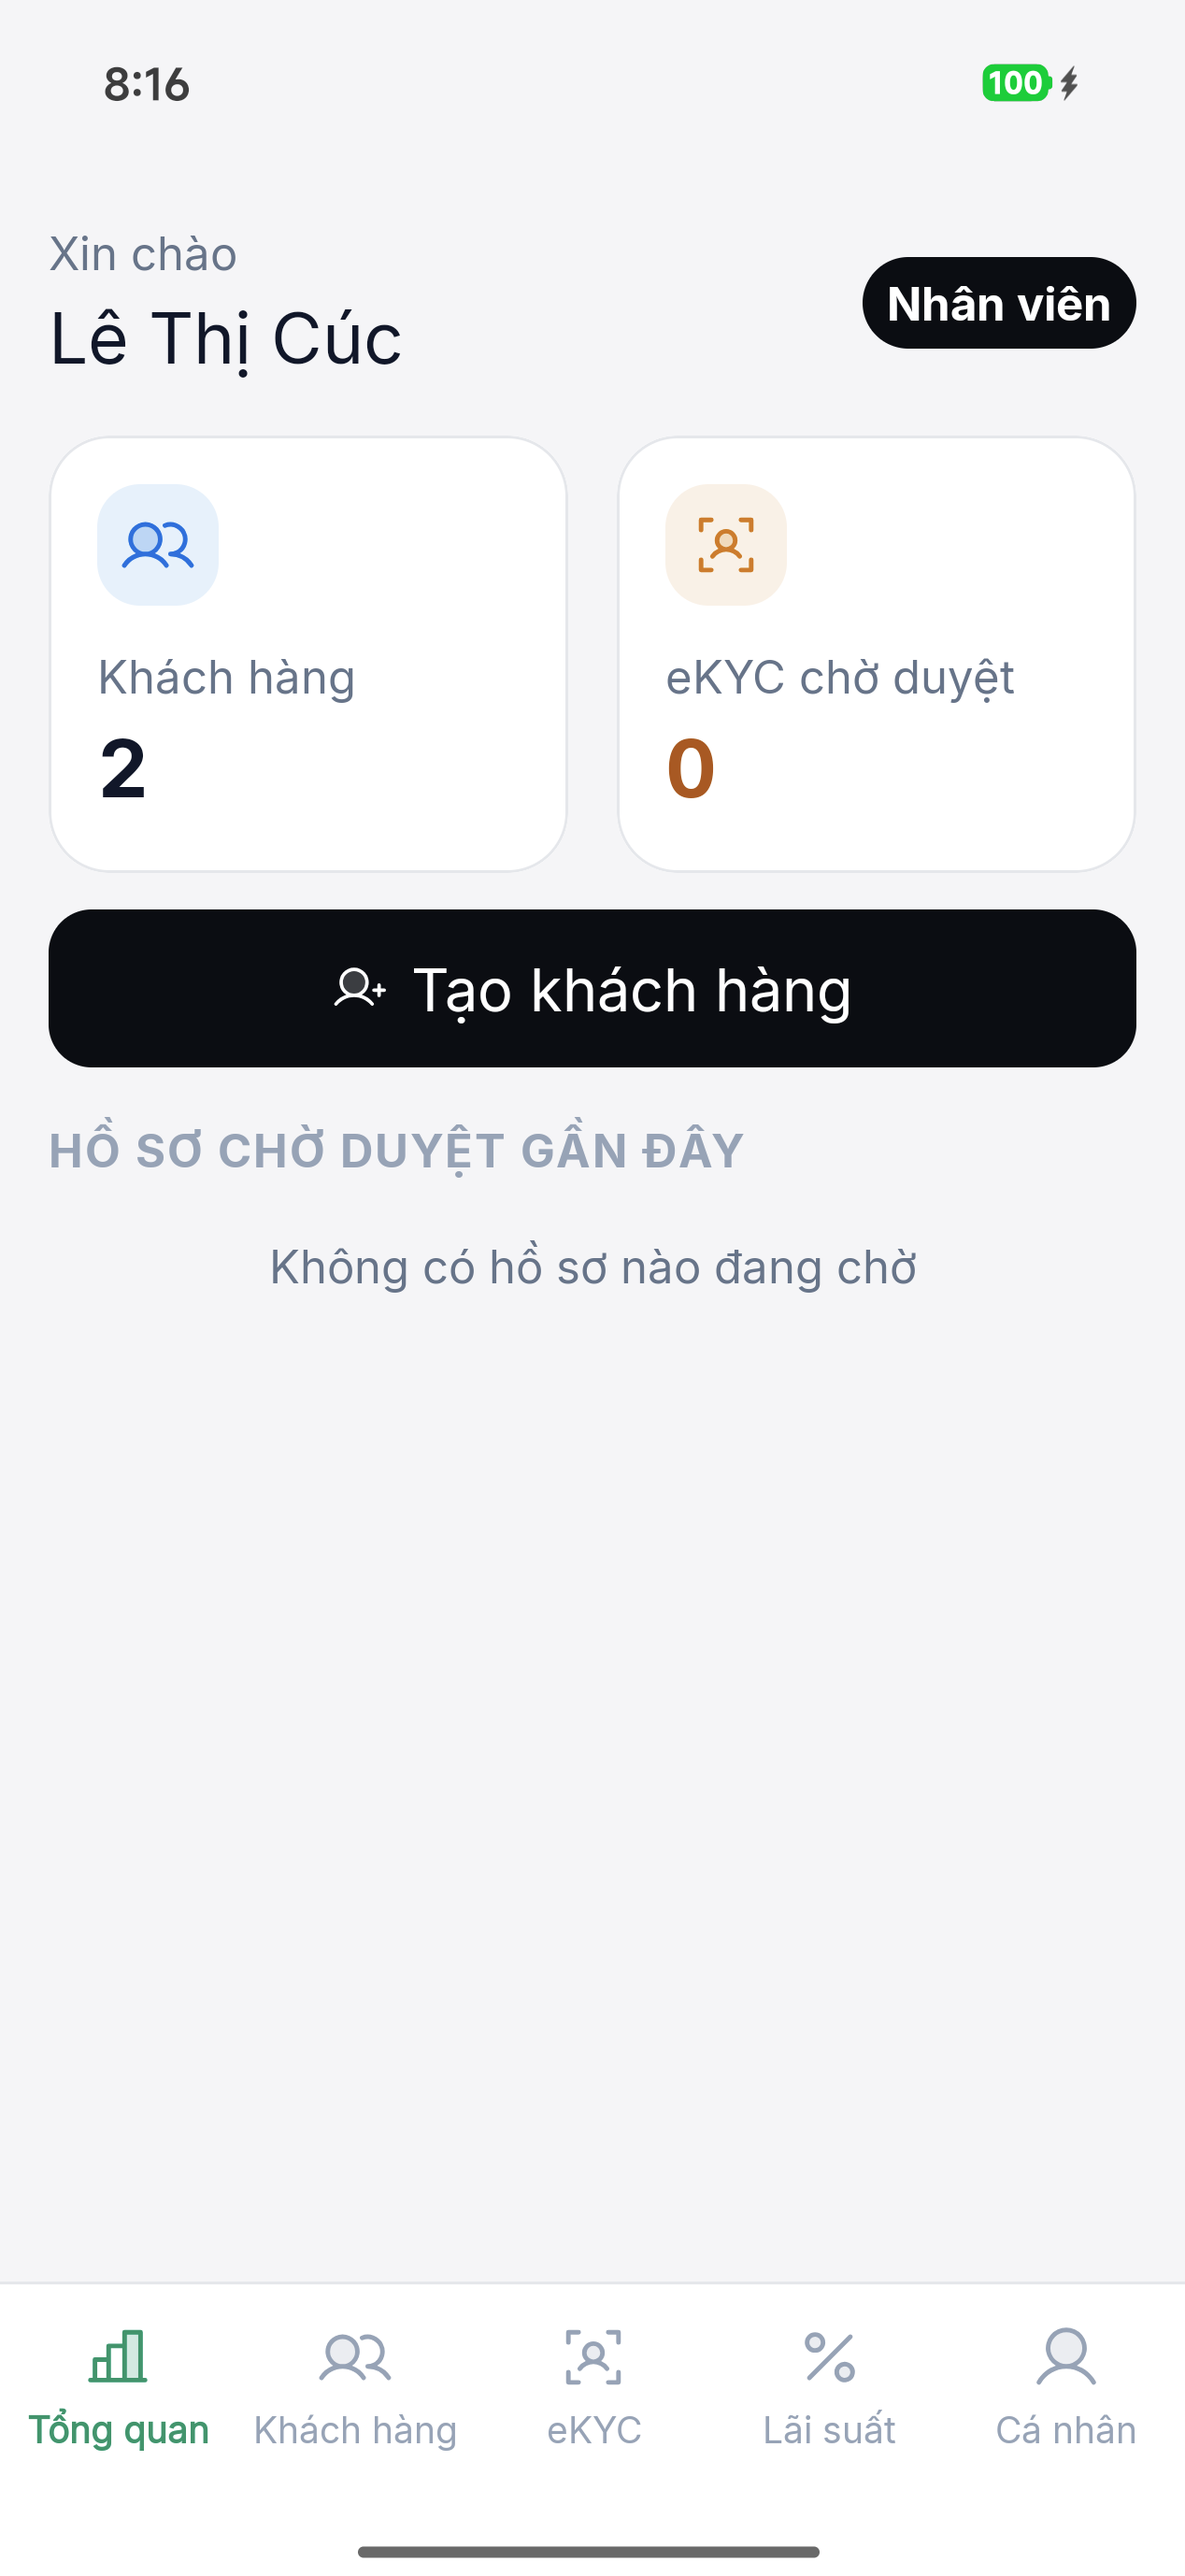
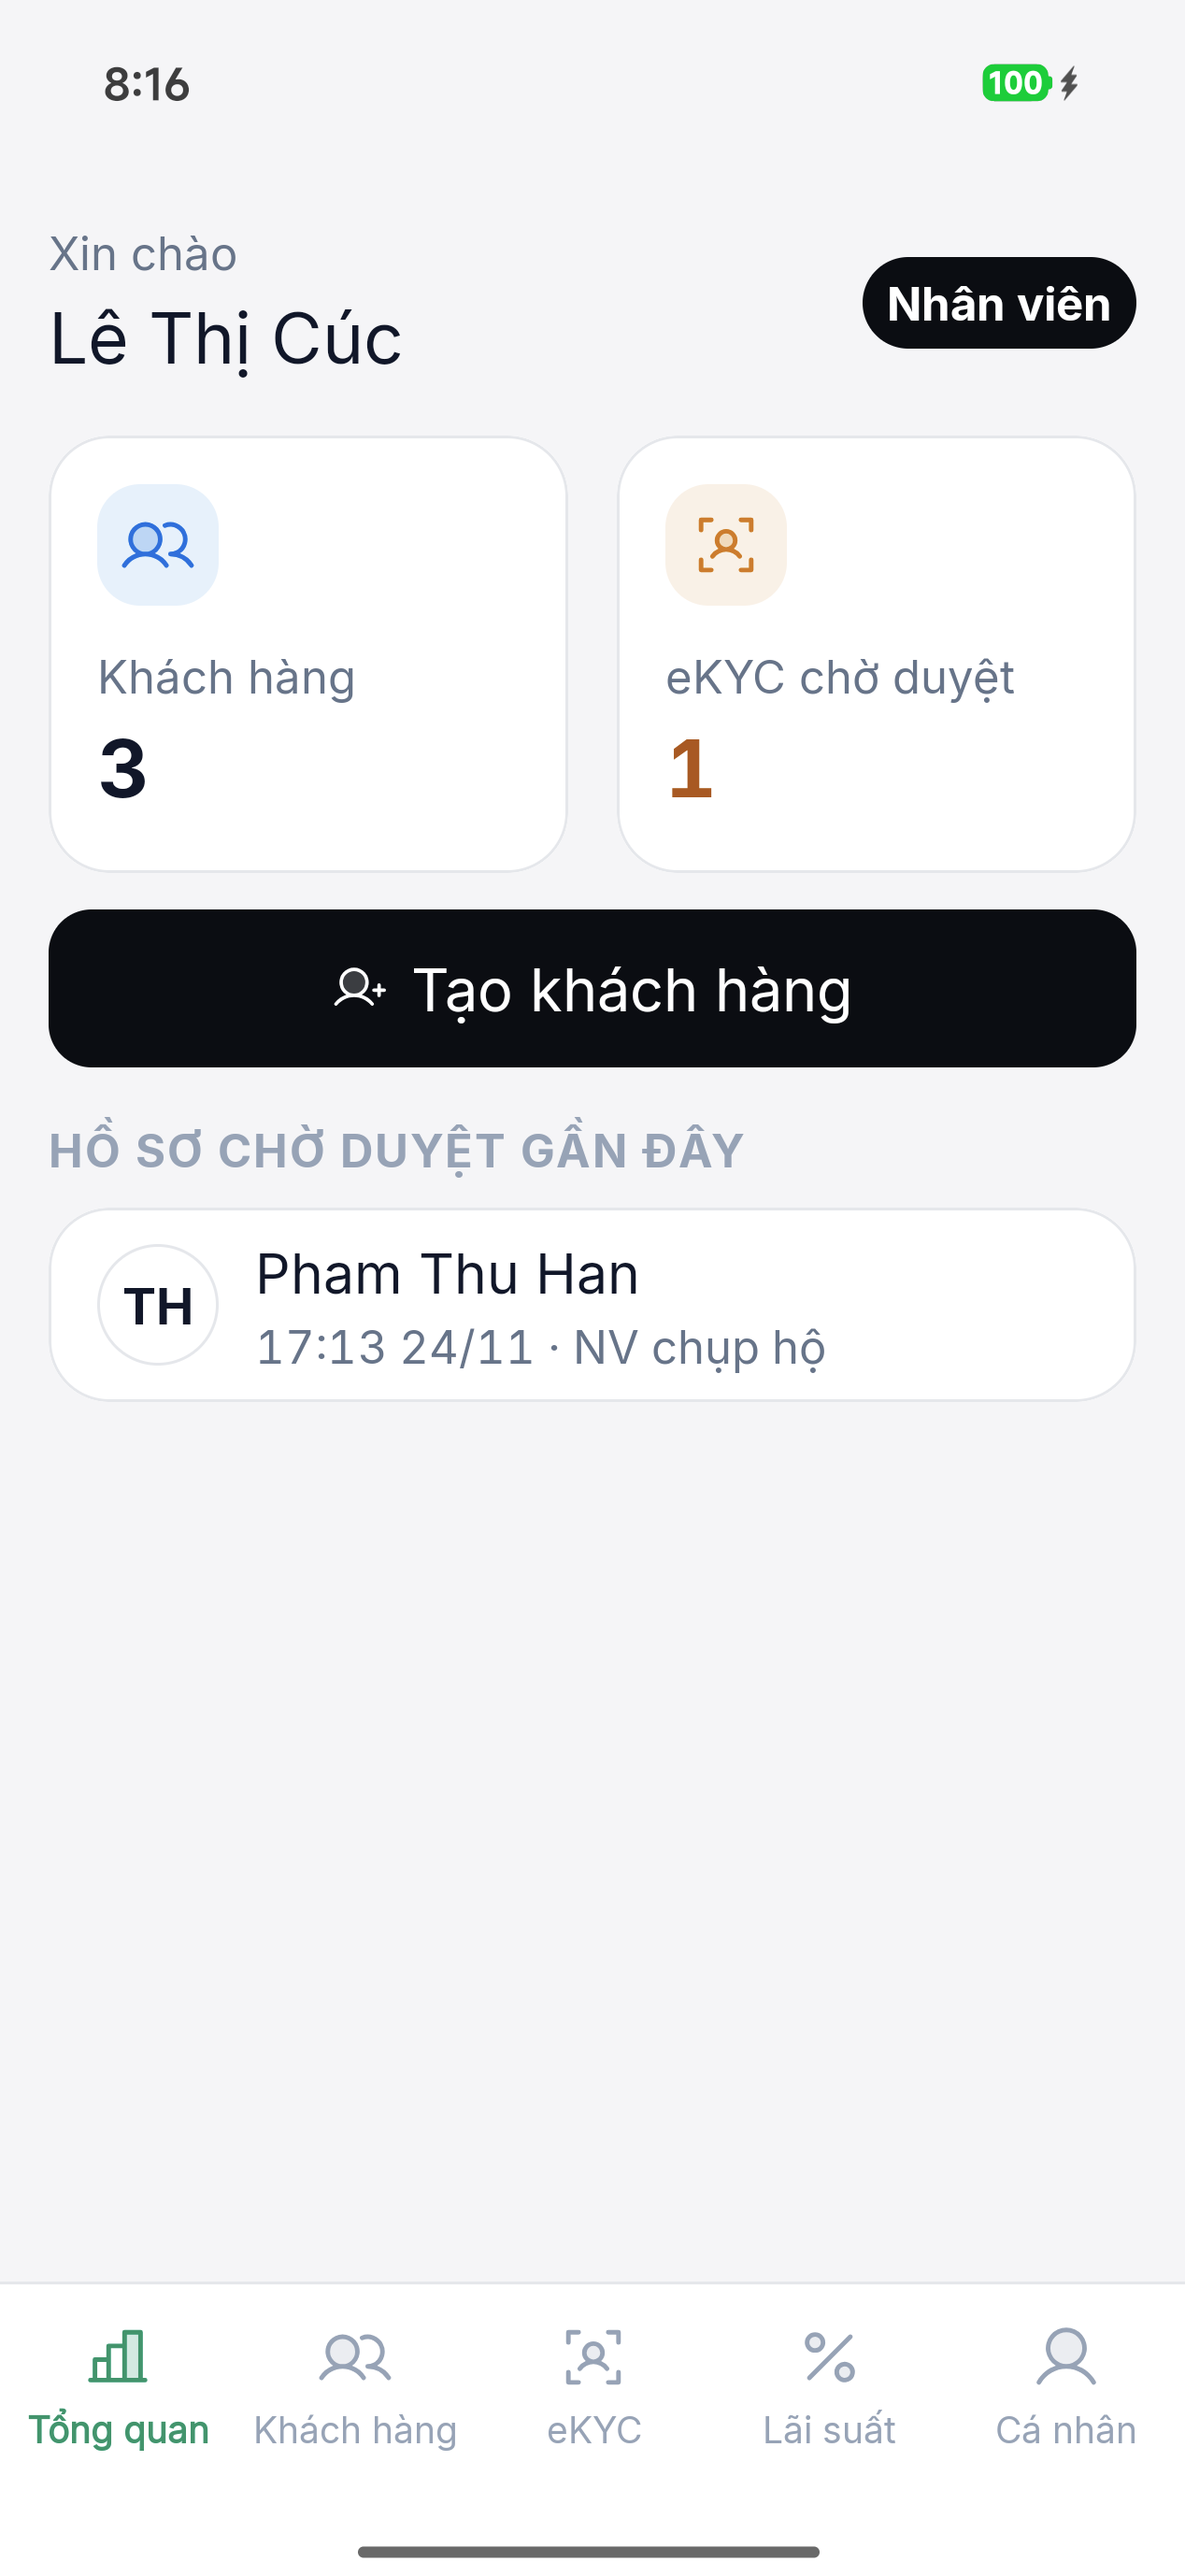
docs: submission section, four extra utility screenshots, updated overview shot

diff --git a/docs/HANDOFF.md b/docs/HANDOFF.md
@@ -297,5 +297,5 @@ Quy trình đã dùng và nên giữ: `superpowers:brainstorming` → spec trong
 - **Ảnh UI**: `docs/report/images/ui/<id>.png` (id trong `ui-shots.md`, 43 ảnh). Chưa có ảnh thật nên build tự tạo ảnh giữ chỗ (không ghi đè ảnh đã có). Chụp bằng `adb exec-out screencap -p` sau khi dọn máy: tắt nút trợ năng nổi, bật Không làm phiền, đổi tên khách thử "Customer", ảnh bản đồ không lộ vị trí nhà. File ảnh thật cần `git add -f` (thư mục `images/ui/` bị gitignore vì chứa ảnh sinh tự động).
 - **Việc còn lại cho báo cáo**: (1) chụp 43 ảnh, dựng lại; (2) mở `.docx` trong ONLYOFFICE (danh mục đã điền sẵn; làm mới lại nếu sửa nội dung trong file Word) → soát → xuất PDF; (3) đọc lại toàn bộ (chương 1 ghi "tôi đọc và kiểm chứng nội dung báo cáo"); (4) cập nhật mục "Trạng thái Google Play" ở chương 6 nếu có thay đổi sau 13/11; (5) điền ngày ký ở trang cảm ơn và cam đoan; (6) xem lại bảng tự chấm điểm (mục 6.8) và dòng video ở bảng 1.1.
 - **JDK 21** phải còn trên máy để build app (dự án ghim toolchain 21); chỉ gỡ sau khi nộp xong.
-- **Lỗi nhỏ của báo cáo** (review 2026-11-24): đã sửa ngày 2026-11-24 các mục sau: soát nội dung chạy lại sau khi dựng docx; hàng tiêu đề bảng dài lặp lại và dính với hàng sau (pandoc đã đặt `tblHeader` sẵn); tài liệu tham khảo thụt dòng treo; "mỗi người dùng có ≥ 1 tài khoản" chỉ áp cho khách (văn bản, ERD, class-model); nét liền cho `CustomerOnboardingService` và `AppLockObserver → AuthRepository`; ghi các trường id lưu trùng (`uid`, `accountId`, `id`); chương 2 (nguồn phiên bản, ngôi thứ nhất, App Check chưa bắt buộc); chương 7 (hạn mức Gemini 20 lượt thuộc `gemini-3.5-flash`); chương 6 (bản release cũng đã cài, dòng F1/F2 không liệt kê quá chi tiết). **Chưa sửa, chủ dự án chọn bỏ qua:** (1) chưa có ảnh cho vé phim, mua sắm, hoá đơn nước, chuyển giữa tài khoản mình, khách tự nộp eKYC, email đặt lại mật khẩu của nhân viên (`ui-shots.md` chưa có các id này); (2) độ dài ~18.600 từ (mục tiêu 14.000–17.000, tính cả bảng); (3) `front._reset_field` chỉ đọc mảnh đầu của lệnh trường TOC; `check.py` giữ một bản debug token App Check (đã có trong HANDOFF, đừng đăng ký token này).
+- **Lỗi nhỏ của báo cáo** (review 2026-11-24): đã sửa ngày 2026-11-24 các mục sau: soát nội dung chạy lại sau khi dựng docx; hàng tiêu đề bảng dài lặp lại và dính với hàng sau (pandoc đã đặt `tblHeader` sẵn); tài liệu tham khảo thụt dòng treo; "mỗi người dùng có ≥ 1 tài khoản" chỉ áp cho khách (văn bản, ERD, class-model); nét liền cho `CustomerOnboardingService` và `AppLockObserver → AuthRepository`; ghi các trường id lưu trùng (`uid`, `accountId`, `id`); chương 2 (nguồn phiên bản, ngôi thứ nhất, App Check chưa bắt buộc); chương 7 (hạn mức Gemini 20 lượt thuộc `gemini-3.5-flash`); chương 6 (bản release cũng đã cài, dòng F1/F2 không liệt kê quá chi tiết). **Chưa sửa, chủ dự án chọn bỏ qua:** (1) chưa có ảnh khách tự nộp eKYC và email đặt lại mật khẩu của nhân viên (đã thêm ảnh vé phim, mua sắm, hoá đơn nước, chuyển giữa tài khoản mình ngày 2026-11-24; ảnh đặt lại mật khẩu sẽ gửi email thật nên bỏ); (2) độ dài ~18.600 từ (mục tiêu 14.000–17.000, tính cả bảng); (3) `front._reset_field` chỉ đọc mảnh đầu của lệnh trường TOC; `check.py` giữ một bản debug token App Check (đã có trong HANDOFF, đừng đăng ký token này).
 - **Chưa chắc / cần chủ dự án xác nhận trong báo cáo**: mục 1.6 (công cụ AI) viết rằng chủ dự án "đọc, kiểm chứng nội dung báo cáo" và rằng các lần chạy thử trên máy phần lớn do Claude Code điều khiển qua adb còn chủ dự án mở khoá và thao tác ở bước cần khuôn mặt; trạng thái Google Play (chương 6) chốt theo ngày 13/11; bảng tự chấm điểm 6.8 (tổng 9,6/10) là đề xuất; dòng video ở bảng 1.1 ghi "ngoài phạm vi báo cáo này".

diff --git a/docs/report/src/06-kiem-thu.md b/docs/report/src/06-kiem-thu.md
@@ -59,7 +59,7 @@ Table: Kết quả chạy thử trên điện thoại thật {#tbl:device-tests}
 | F6 (12/11) | Hộp thoại quyền vị trí (từ chối rồi cấp lại); gợi ý chi nhánh từ vị trí thật kèm dòng giải thích khi chi nhánh gần nhất phải đi vòng; danh sách xếp theo quãng đi bộ; chọn chi nhánh khác; gọi chi nhánh; tắt mạng thì dùng đường thẳng, bật lại thì có đường đi bộ; ép xoay ngang không lỗi | Đứng ở cổng trường để thấy ca "393 m nhưng đi bộ 1,3 km" (đã đo bằng OSRM); máy không có Play services |
 | F7 (13/11) | Chip "Nạp tiền điện thoại" mở đúng màn và quay lại còn chat; hỏi chi tiêu tháng bằng AI thật (khoảng 6 giây) ra đúng "4.282.200 ₫ qua 3 giao dịch"; tin chứa OTP được nhắc và không gửi lên AI; chuyển sang chế độ cơ bản khi AI lỗi | Chế độ máy bay thật; hết hạn mức ngày của AI |
 
-Ghi chú: các lần chạy này được ghi bằng văn bản ngay sau mỗi tính năng, chưa có video. Video demo nằm ngoài phạm vi của báo cáo này.
+Ghi chú: các lần chạy này được ghi bằng văn bản ngay sau mỗi tính năng, không quay lại. Video demo nộp riêng qua Google Drive (mục Bài nộp ở chương 1) chạy lại các chức năng chính.
 
 ## Review và sửa lỗi
 
@@ -116,7 +116,7 @@ Table: Tự đánh giá theo barem {#tbl:self-assessment}
 | Utilities | 0,5 | Mục 4.7 | 0,5 | Bảy tiện ích chạy được, dữ liệu giả lập |
 | Navigation | 0,5 | Mục 4.8 | 0,5 | Bản đồ, vị trí, gợi ý đường đi bộ ngắn nhất, có dự phòng |
 | Chatbot | 0,5 | Mục 4.9 | 0,5 | Trợ lý AI kèm nút mở màn, có chế độ cơ bản |
-| Hình thức báo cáo, demo | 1 | Toàn báo cáo | 0,9 | Theo mẫu của Khoa; phần video chưa làm trong báo cáo này |
+| Hình thức báo cáo, demo | 1 | Toàn báo cáo | 0,9 | Theo mẫu của Khoa; video demo nộp riêng qua liên kết Google Drive |
 | Tổng | 10 | | 9,6 | |
 
 Phần tự chấm chỉ là ý kiến của tôi; điểm chính thức do giảng viên quyết định.

diff --git a/docs/report/src/05-giao-dien.md b/docs/report/src/05-giao-dien.md
@@ -84,6 +84,10 @@ Tab Chuyển tiền cho chọn ba kiểu, kèm danh sách người nhận gần 
 ![](ui/cus-transfer-external.png)
 :::
 
+![Chuyển giữa tài khoản của tôi: chọn tài khoản nguồn và đích](ui/cus-transfer-own.png){#fig:ui-transfer-own width=5.2cm}
+
+Kiểu thứ ba, chuyển giữa tài khoản của chính khách, chỉ cần chọn tài khoản nguồn và đích (@fig:ui-transfer-own).
+
 Khi nhập số tài khoản FLUX, ứng dụng hiện tên chủ tài khoản để người chuyển xác nhận đúng người nhận. Form cũng cho biết hạn mức còn lại trong ngày. Mọi giao dịch kết thúc ở bottom sheet xác thực.
 
 ::: {#fig:ui-auth-sheet .phones caption="Xác thực giao dịch: (a) bottom sheet nhập mã OTP với bàn phím số riêng; (b) thông báo SMS giả lập chứa mã; (c) bước quét mặt khi số tiền từ 10.000.000 ₫"}
@@ -116,6 +120,12 @@ Bảy tiện ích dùng ba kiểu màn hình, tất cả đều thanh toán bằ
 ![](ui/cus-catalog-flight.png)
 ![](ui/cus-catalog-hotel.png)
 ![](ui/cus-payment-receipt.png)
+:::
+
+::: {#fig:ui-utility-3 .phones caption="Tiền nước, vé phim và mua sắm: (a) tra hoá đơn tiền nước SAWACO; (b) vé xem phim, các suất đã qua giờ bị khoá; (c) mua sắm, nút thanh toán khoá khi số tiền vượt số dư"}
+![](ui/cus-bill-water.png)
+![](ui/cus-catalog-movie.png)
+![](ui/cus-catalog-shop.png)
 :::
 
 Màn hoá đơn (điện, nước) nhận mã khách hàng và hiện hoá đơn của kỳ hiện tại; hoá đơn đã trả hiện nhãn "đã thanh toán" và cho xem lại biên lai. Màn nạp điện thoại tự nhận nhà mạng theo đầu số và có sáu mệnh giá. Màn danh mục dùng chung cho vé máy bay, vé phim, khách sạn và mua sắm: chọn mục, số lượng và ngày, rồi nhận biên lai kèm mã đặt chỗ.

diff --git a/docs/report/src/01-gioi-thieu.md b/docs/report/src/01-gioi-thieu.md
@@ -28,7 +28,7 @@ Table: Đối chiếu yêu cầu của đề với ứng dụng {#tbl:requiremen
 | Kỹ thuật: cơ sở dữ liệu trên cloud | Cloud Firestore | 3.4 |
 | Kỹ thuật: triển khai trên Google Play | Đã chuẩn bị bản phát hành; chưa tải lên (tuỳ chọn) | 6.7 |
 | Kỹ thuật: báo cáo phân tích thiết kế, hiện thực, giao diện | Chương 2 đến 5 | |
-| Kỹ thuật: video demo | Ngoài phạm vi báo cáo này; giao diện được trình bày bằng ảnh màn hình ở chương 5 | 5 |
+| Kỹ thuật: video demo | Video quay màn hình các chức năng, nộp qua liên kết Google Drive (mục Bài nộp); ảnh màn hình ở chương 5 | 5 |
 
 ## Phạm vi và ràng buộc
 
@@ -37,6 +37,15 @@ Table: Đối chiếu yêu cầu của đề với ứng dụng {#tbl:requiremen
 - Mọi giao dịch dùng tiền giả lập. Chuyển liên ngân hàng, dữ liệu hoá đơn, giá vé và 12 chi nhánh được giả lập trong ứng dụng; riêng nạp tiền đi qua cổng VNPay sandbox thật, và bản đồ, đường đi dùng OpenStreetMap và OSRM thật.
 - Giảng viên đã xác nhận ngày 13/11/2026 rằng việc đưa ứng dụng lên Google Play là tuỳ chọn, nên tôi dành thời gian chính cho ứng dụng và báo cáo.
 - Chữ hiển thị trong ứng dụng là tiếng Việt, tiền tệ là đồng (VND) và được lưu dạng số nguyên.
+
+## Bài nộp
+
+Bài nộp gồm ba phần, kèm một file văn bản:
+
+- **Mã nguồn** của ứng dụng trên một kho riêng ở GitHub (nhánh `main`).
+- **Video demo** các chức năng, đặt trên Google Drive.
+- **Báo cáo** này, dạng PDF.
+- **File `.txt`** chứa hai liên kết: liên kết kho GitHub và liên kết video trên Google Drive. File này nộp cùng báo cáo.
 
 ## Công cụ thực hiện
 

diff --git a/docs/report/ui-shots.md b/docs/report/ui-shots.md
@@ -21,6 +21,7 @@ Trước khi chụp: tắt nút trợ năng nổi, bật Không làm phiền, đ
 | cus-transfer-hub | Chọn kiểu chuyển tiền | trong FLUX / của tôi / liên ngân hàng |
 | cus-transfer-internal | Chuyển trong FLUX | tra tên theo số tài khoản |
 | cus-transfer-external | Chuyển liên ngân hàng | chọn ngân hàng |
+| cus-transfer-own | Chuyển giữa tài khoản của tôi | Thanh toán → Tiết kiệm |
 | cus-auth-otp | Sheet xác thực OTP | bàn phím số riêng |
 | cus-sms-otp | Thông báo SMS giả lập | chạm để tự điền |
 | cus-auth-face | Bước quét khuôn mặt | giao dịch ≥ 10.000.000 ₫ |
@@ -29,9 +30,12 @@ Trước khi chụp: tắt nút trợ năng nổi, bật Không làm phiền, đ
 | cus-qr-mine | Mã QR của tôi | |
 | cus-bill-electric | Thanh toán tiền điện | tra hoá đơn |
 | cus-bill-paid | Hoá đơn đã thanh toán | không trả lần hai |
+| cus-bill-water | Thanh toán tiền nước | SAWACO, tra theo mã khách hàng |
 | cus-topup | Nạp tiền điện thoại | nhà mạng theo đầu số |
 | cus-catalog-flight | Vé máy bay | danh mục |
 | cus-catalog-hotel | Đặt phòng khách sạn | danh mục |
+| cus-catalog-movie | Vé xem phim | suất đã qua giờ bị khoá |
+| cus-catalog-shop | Mua sắm | lưới sản phẩm |
 | cus-payment-receipt | Biên lai thanh toán dịch vụ | mã đặt chỗ |
 | cus-branch-suggest | Gợi ý chi nhánh đi bộ gần nhất | đường emerald trên bản đồ OSM |
 | cus-branch-list | Danh sách chi nhánh | xếp theo quãng đi bộ |
